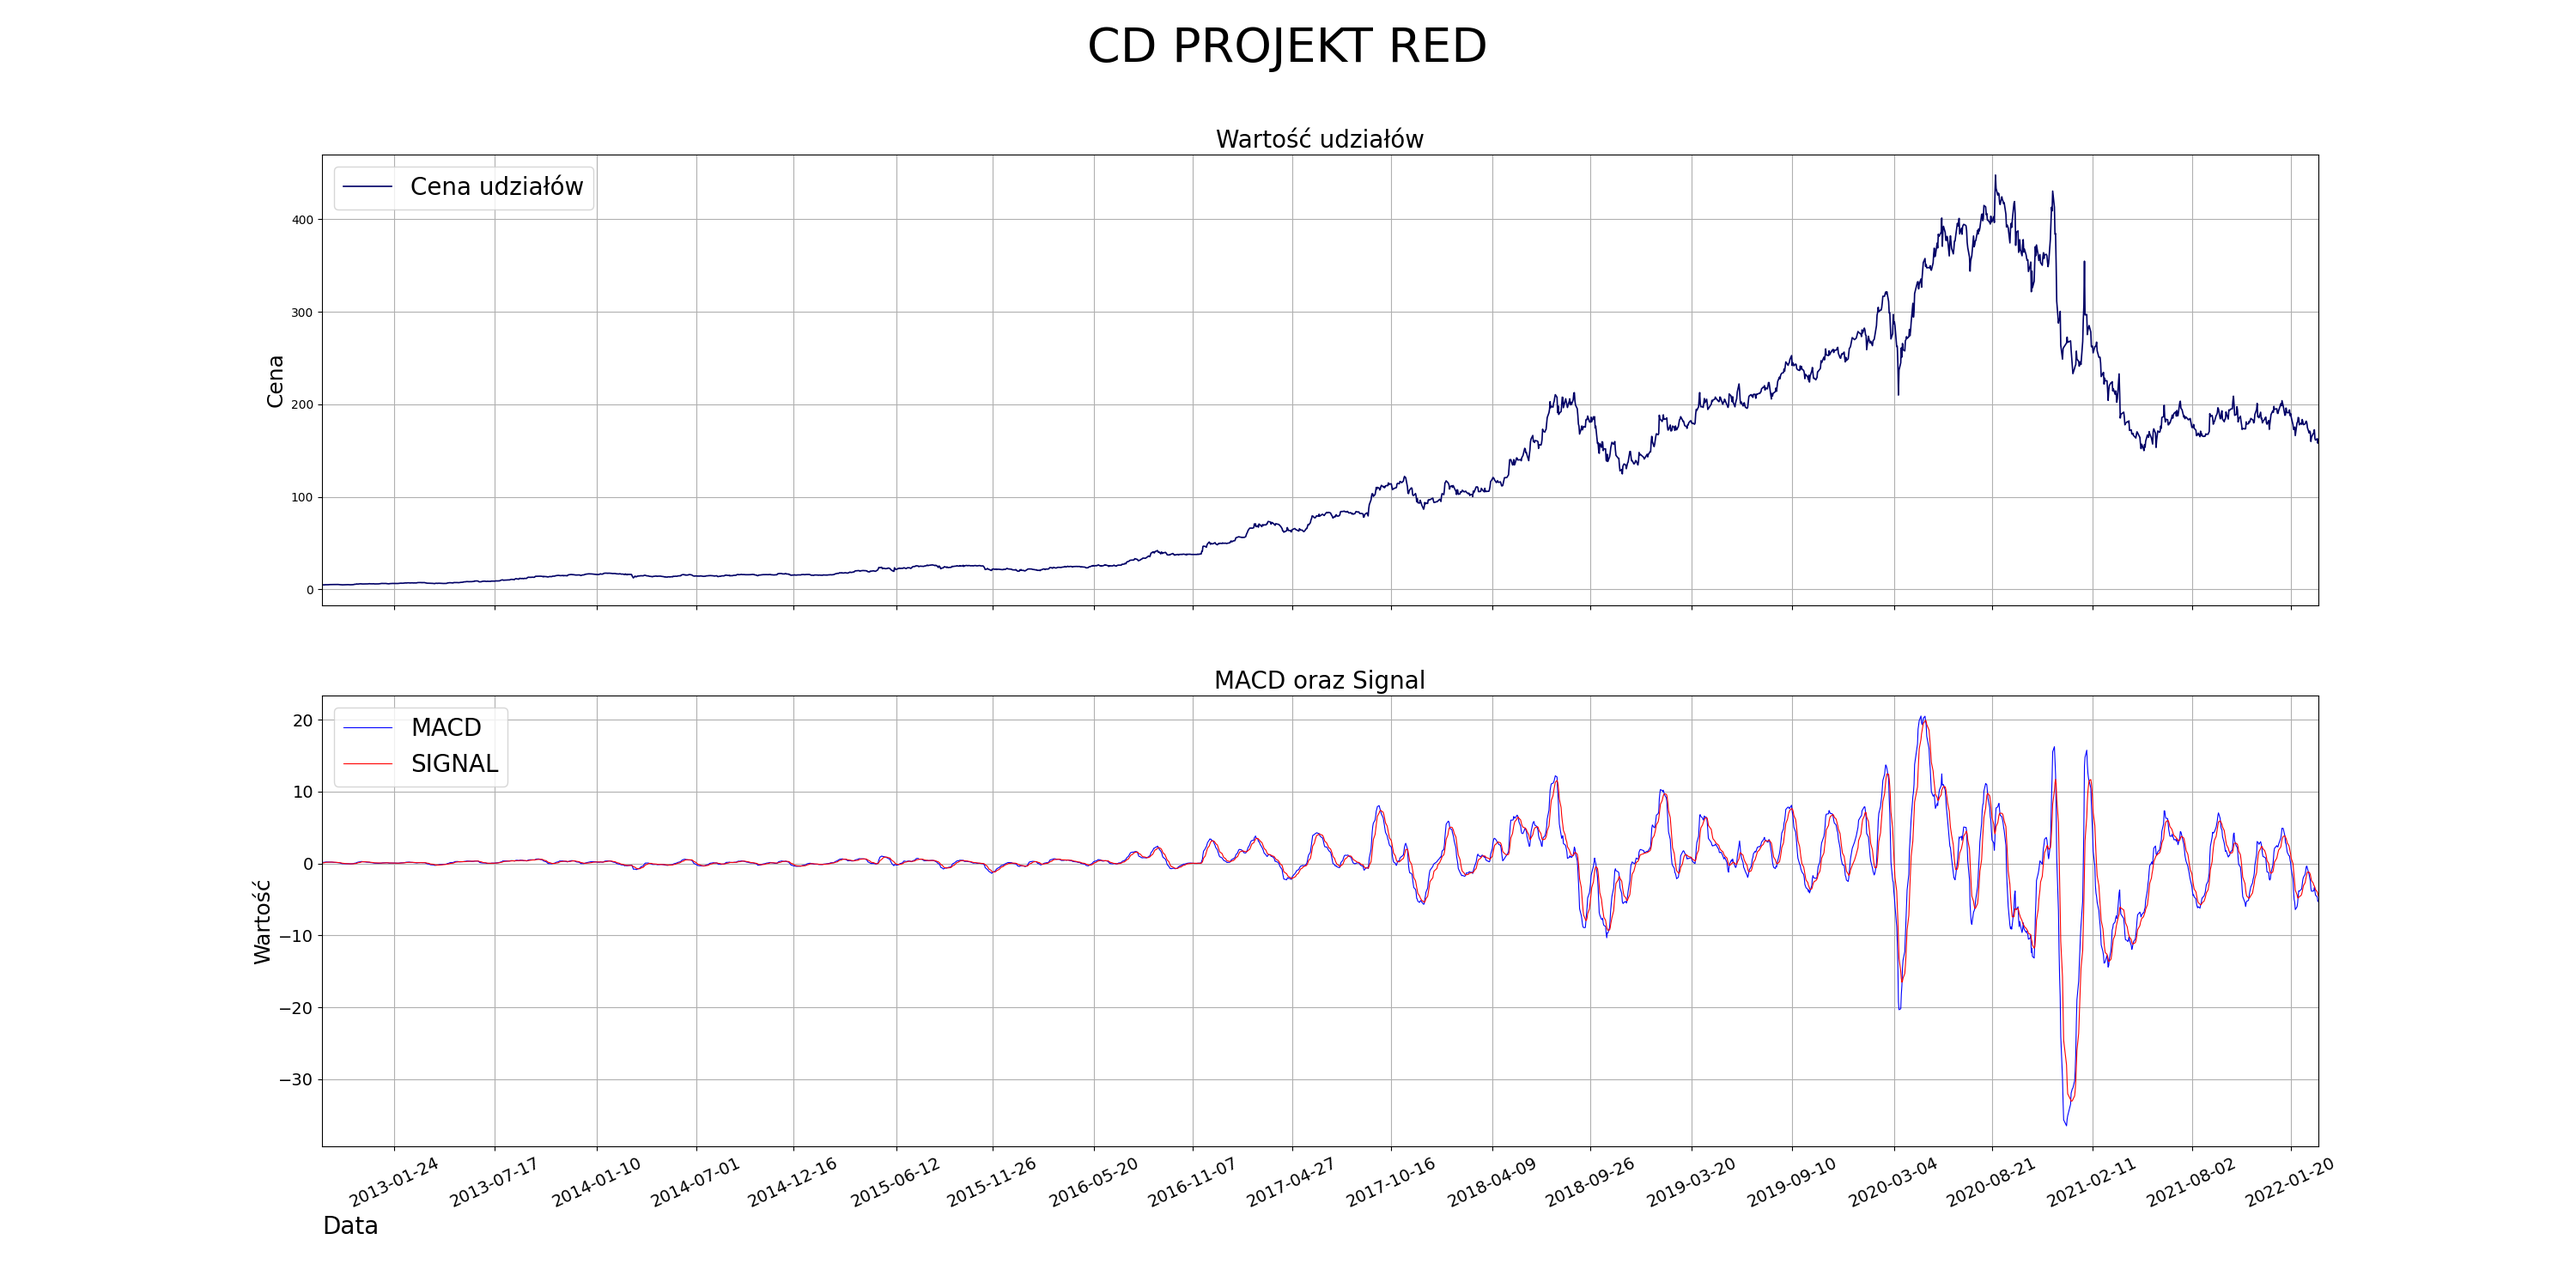
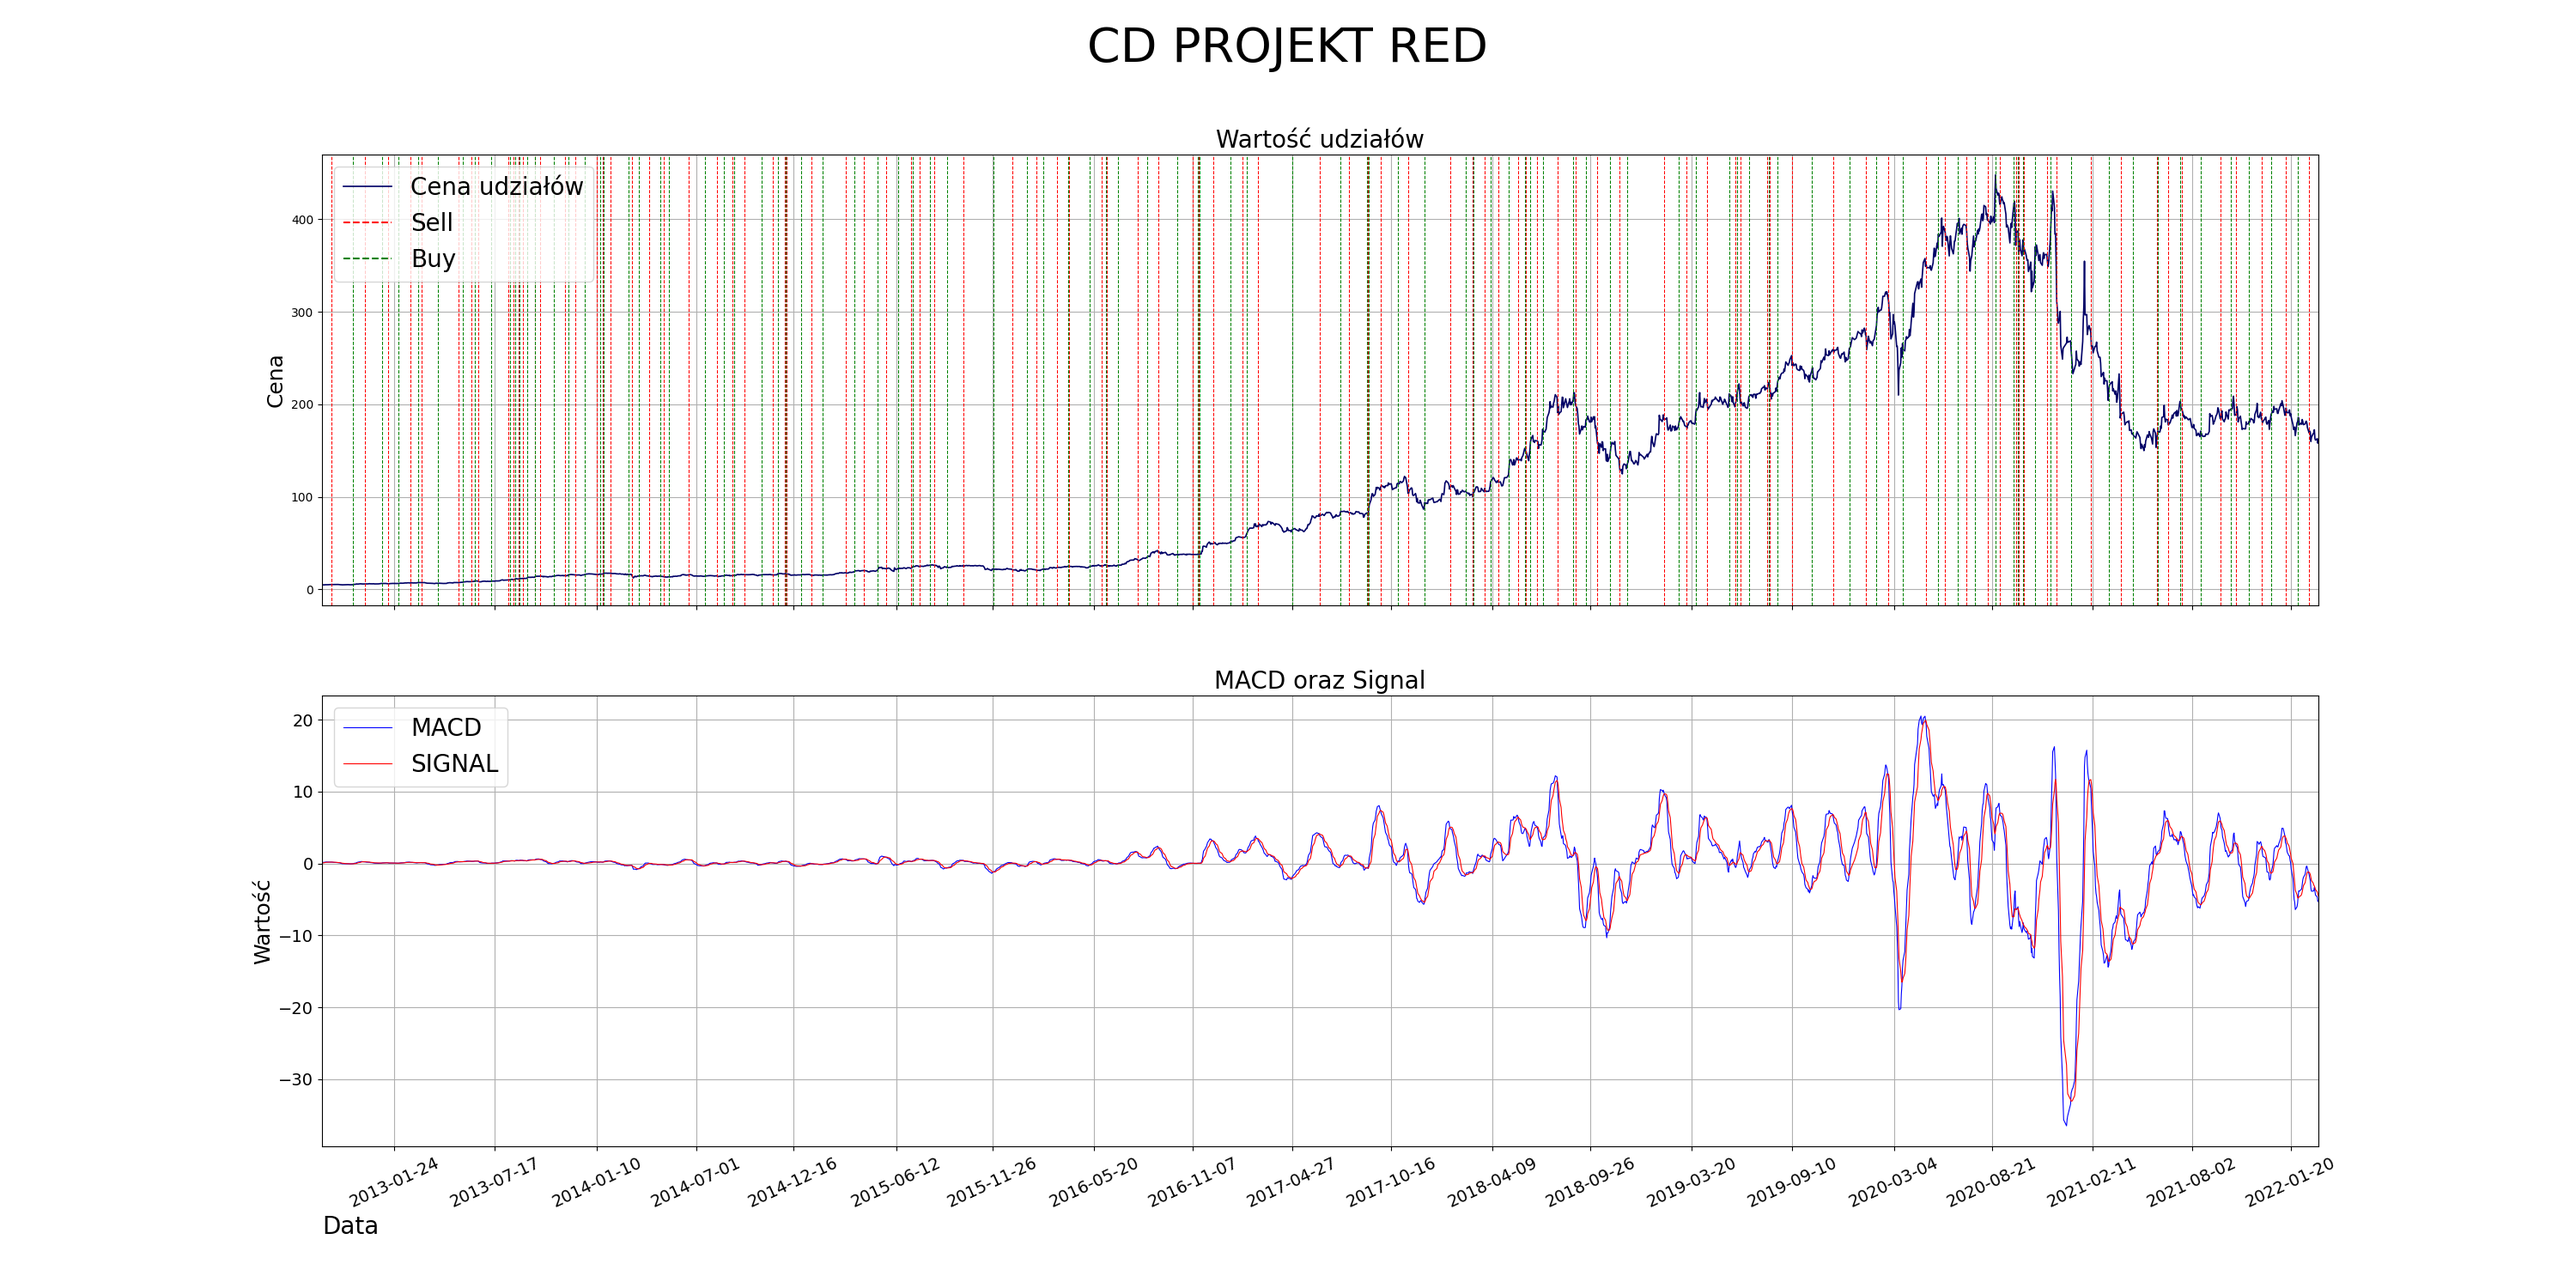
Najprostszy algorytm inwestujący
Implementacja prostego algorytmu inwestującego, który w momencie wykrycia rozpoczęcia trendu wzrostowego kupuje udziały za cały swój kapitał, a w momencie wykrycia trendu spadkowego, sprzedaje wszystko. Algorytm opiera swoje działanie o wskaźnik MACD

Changed region(s): [[0.124, 0.1533, 0.248, 0.46], [0.775, 0.1227, 0.806, 0.46]]

diff --git a/Projekt1 - MACD/Projekt1/main.py b/Projekt1 - MACD/Projekt1/main.py
@@ -3,10 +3,26 @@
 import miscFunctions
 
 
+def buyShares(sharePrice, capital, shares):
+    while(True):
+        if capital >= sharePrice:
+            capital -= sharePrice
+            shares = shares + 1
+        else:
+            break
+    return capital, shares
 
+def sellShares(sharePrice, capital, shares):
+    while(True):
+        if shares > 0:
+            capital += sharePrice
+            shares = shares - 1
+        else:
+            break
+    return capital, shares
 # definicja plików wejsciowych i nazwy indeksu ktory bedziemy analziowac
-csvFilepath = 'asseco.csv'
-indexname = 'Asseco'
+csvFilepath = 'CDP.csv'
+indexname = 'CD PROJEKT RED'
 
 # pobranie danych z pliku csv
 dates, values = miscFunctions.importCSVData(csvFilepath)
@@ -21,3 +37,24 @@ macd, signal = miscFunctions.calculateMACDandSignal(ema12, ema26)
 # utworzenie wykresu
 miscFunctions.drawMainPlot(dates, values, macd, signal, indexname)
 
+
+
+# algorytm kupowania
+
+start = 1000
+shares = 0
+# od 35 poniewaz od 35 daty zaczynają sięwszystkie wskaźniki
+for i in range(1, len(signal)):
+    prevDifference = macd[i - 1 + 9] - signal[i - 1]
+    currentDifference = macd[i + 9] - signal[i]
+
+
+    if currentDifference > 0 and prevDifference < 0:
+        start,shares = buyShares(values[i+35], start, shares)
+    elif currentDifference < 0 and prevDifference > 0:
+        start,shares = sellShares(values[i+35], start, shares)
+
+# sprzedajemy ostatniego dnia analizy całą resztę
+start += shares*values[-1]
+
+print("Wynik algorytmu: " + str(start))

diff --git a/Projekt1 - MACD/Projekt1/miscFunctions.py b/Projekt1 - MACD/Projekt1/miscFunctions.py
@@ -46,6 +46,7 @@ def calculateBuyAndSellPoints(dates, macd, signal):
         elif prevDifference <= 0 and currentDifference >= 0:
             # moment kupna
             buyPoints.append(dates[i + 35])
+
     return buyPoints, sellPoints
 
 
